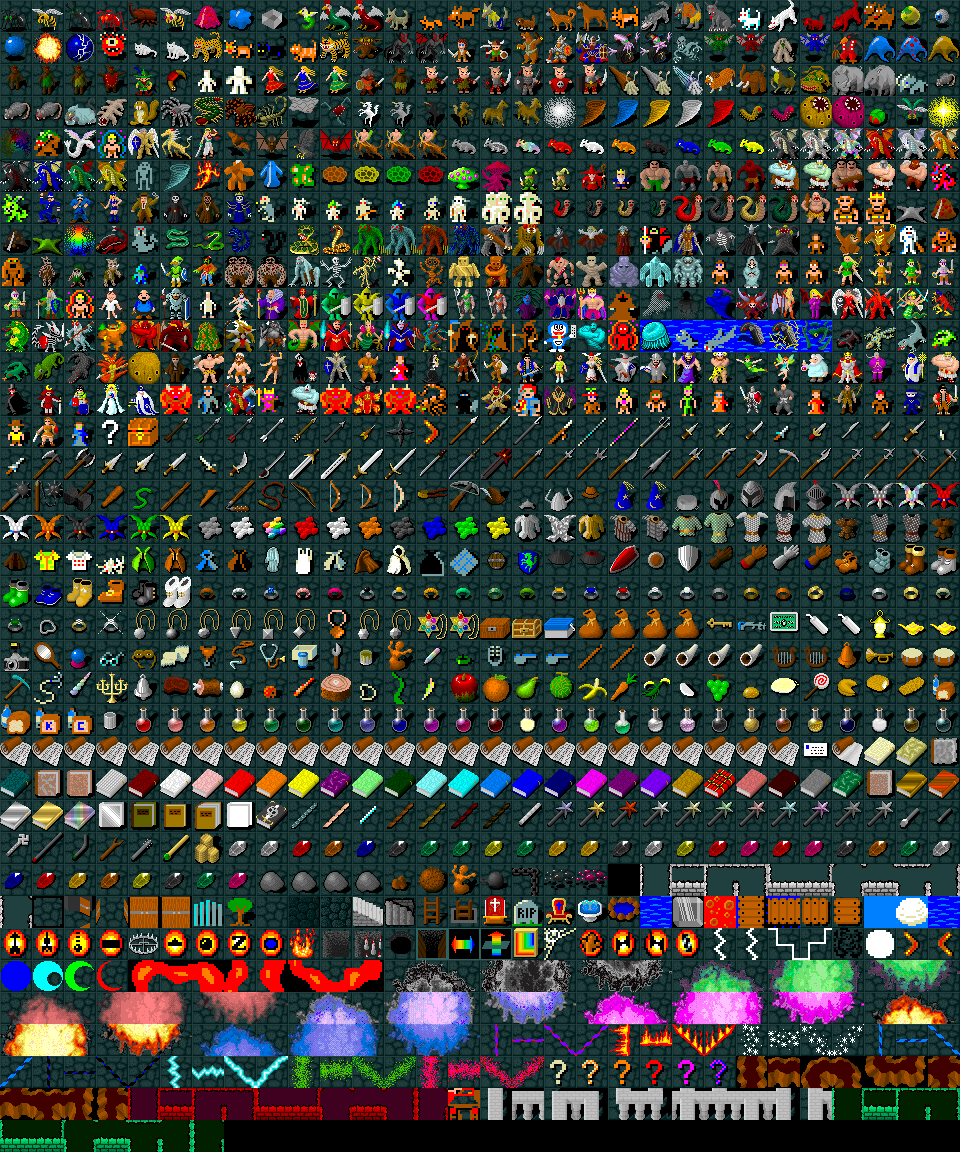
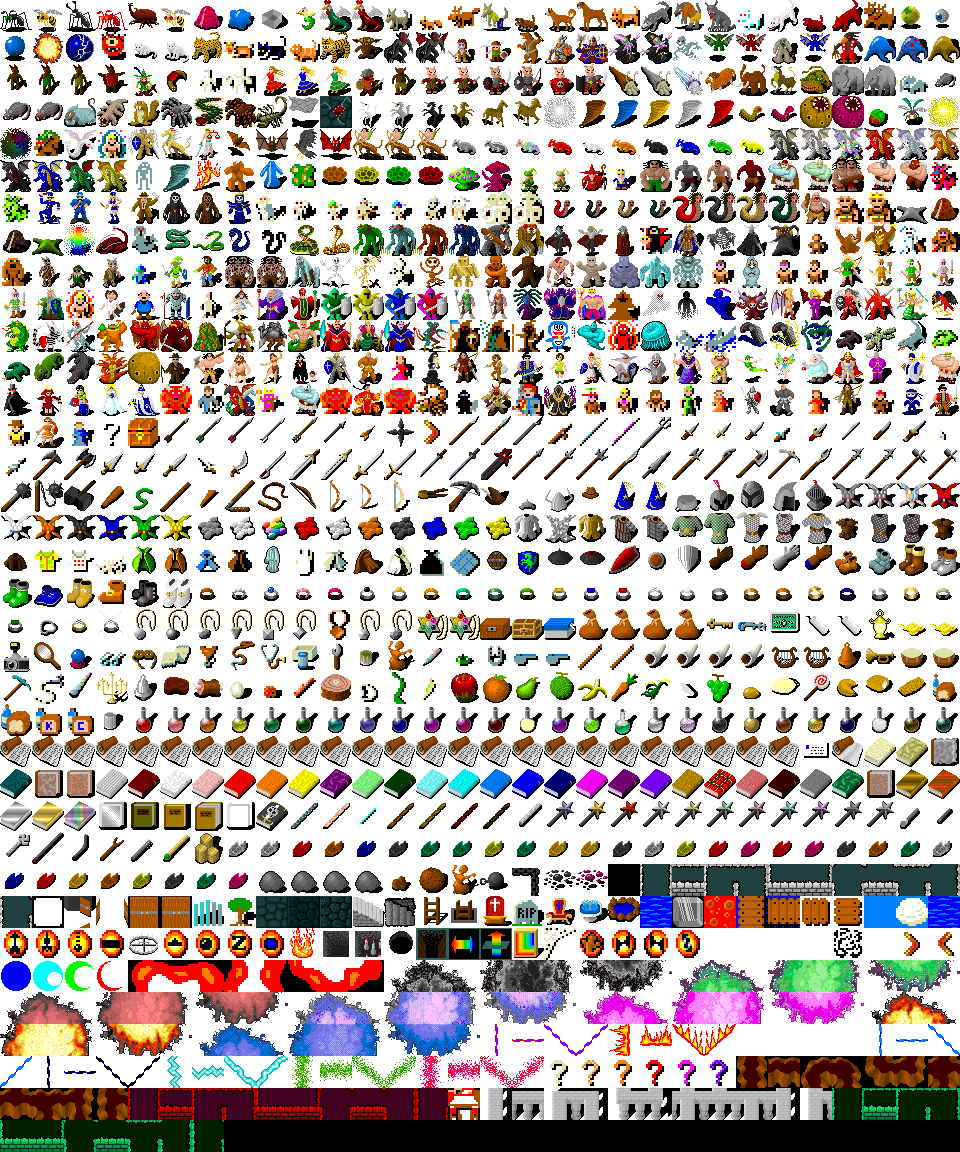
Remove background from some tile images. Cache combined images instead of drawing background separately.

diff --git a/FishingRodOfDestiny/src/main/java/fishingrodofdestiny/resources/ImageCache.java b/FishingRodOfDestiny/src/main/java/fishingrodofdestiny/resources/ImageCache.java
@@ -8,6 +8,10 @@ package fishingrodofdestiny.resources;
 import java.net.URL;
 import java.util.HashMap;
 import javafx.scene.image.Image;
+import javafx.scene.image.PixelReader;
+import javafx.scene.image.PixelWriter;
+import javafx.scene.image.WritableImage;
+import javafx.scene.paint.Color;
 
 /**
  * Singleton to load and cache images.
@@ -25,10 +29,14 @@ public class ImageCache {
     }
     
     
-    private HashMap<String, Image> images;
+    private final HashMap<String, Image>                images;
+    private final HashMap<String, Image>                partialImages;
+    private final HashMap<Image, HashMap<Image, Image>> combinedImages;
   
     private ImageCache() {
-        this.images = new HashMap<>();
+        this.images         = new HashMap<>();
+        this.partialImages  = new HashMap<>();
+        this.combinedImages = new HashMap<>();
     }
     
     public Image get(String name) {
@@ -55,5 +63,98 @@ public class ImageCache {
         }
 
         return image;
+    }
+    
+    
+    public Image getPartial(String name, int offsetX, int offsetY, int width, int height) {
+        String key = name + ":" + offsetX + "," + offsetY + "-" + width + "x" + height;
+        Image partialImage = this.partialImages.get(key);
+        if (partialImage != null) {
+            return partialImage;
+        }
+        
+        if (this.partialImages.containsKey(key)) {
+            return null;
+        }
+        
+        Image source = this.get(name);
+        if (source == null) {
+            return null;
+        }
+        
+        partialImage = this.createPartial(source, offsetX, offsetY, width, height);
+        this.partialImages.put(key, partialImage);
+        
+        return partialImage;
+    }
+    
+    
+    public Image getCombined(Image background, Image foreground) {
+        HashMap<Image, Image> combinedWithBackgrounds = this.combinedImages.get(background);
+        if (combinedWithBackgrounds == null) {
+            combinedWithBackgrounds = new HashMap<>();
+            this.combinedImages.put(background, combinedWithBackgrounds);
+        }
+        
+        Image combined = combinedWithBackgrounds.get(foreground);
+        if (combined != null) {
+            return combined;
+        }
+        
+        if (combinedWithBackgrounds.containsKey(foreground)) {
+            return null;
+        }
+
+        combined = this.combineImages(background, foreground);
+        combinedWithBackgrounds.put(foreground, combined);
+        
+        return combined;
+    }
+
+
+
+    private Image createPartial(Image source, int offsetX, int offsetY, int width, int height) {
+        WritableImage image = new WritableImage(width, height);
+        
+        PixelReader reader = source.getPixelReader();
+        PixelWriter writer = image.getPixelWriter();
+        
+        for(int y = 0; y < height; y++) {
+            for(int x = 0; x < width; x++) {
+                writer.setColor(x, y, reader.getColor(offsetX + x, offsetY + y));
+            }
+        }
+        
+        return image;
+    }
+
+    
+    
+    private Image combineImages(Image background, Image foreground) {
+        int width = (int) background.getWidth();
+        int height = (int) background.getHeight();
+        
+        WritableImage combined = new WritableImage(width, height);
+        
+        PixelReader prBackground = background.getPixelReader();
+        PixelReader prForeground = foreground.getPixelReader();
+        PixelWriter pwCombined   = combined.getPixelWriter();
+
+        for(int y = 0; y < height; y++) {
+            for(int x = 0; x < width; x++) {
+                Color bg = prBackground.getColor(x, y);
+                Color fg = prForeground.getColor(x, y);
+                
+                double a = fg.getOpacity();
+                double r = (1.0 - a) * bg.getRed()   + a * fg.getRed();
+                double g = (1.0 - a) * bg.getGreen() + a * fg.getGreen();
+                double b = (1.0 - a) * bg.getBlue()  + a * fg.getBlue();
+
+                Color color = new Color(r, g, b, 1);
+                pwCombined.setColor(x, y, color);
+            }
+        }
+        
+        return combined;
     }
 }

diff --git a/FishingRodOfDestiny/src/main/java/fishingrodofdestiny/world/TileGfx.java b/FishingRodOfDestiny/src/main/java/fishingrodofdestiny/world/TileGfx.java
@@ -16,37 +16,54 @@ import javafx.scene.image.Image;
  * @author joyr
  */
 public class TileGfx {
+    private final List<Image> sourceImages;
     private final List<Image> images;
-    private final int         offsetX;
-    private final int         offsetY;
-    private final int         width;
-    private final int         height;
+    private Image             background;
     private int               currentFrame;
 
-    public TileGfx(int gfxOffsetX, int gfxOffsetY, int gfxWidth, int gfxHeight) {
+    private TileGfx() {
+        this.sourceImages = new ArrayList<>();
         this.images       = new ArrayList<>();
-        this.offsetX      = gfxOffsetX;
-        this.offsetY      = gfxOffsetY;
-        this.width        = gfxWidth;
-        this.height       = gfxHeight;
+        this.background   = null;
         this.currentFrame = -1;
     }
 
     public TileGfx(String gfxFilename, int gfxOffsetX, int gfxOffsetY, int gfxWidth, int gfxHeight) {
-        this(gfxOffsetX, gfxOffsetY, gfxWidth, gfxHeight);
-        this.images.add(ImageCache.getInstance().get(gfxFilename));
+        this();
+        this.sourceImages.add(ImageCache.getInstance().getPartial(gfxFilename, gfxOffsetX, gfxOffsetY, gfxWidth, gfxHeight));
+        this.sourceImages.forEach(image -> this.images.add(image));
     }
      
     public TileGfx(List<String> gfxFilenames, int gfxOffsetX, int gfxOffsetY, int gfxWidth, int gfxHeight) {
-        this(gfxOffsetX, gfxOffsetY, gfxWidth, gfxHeight);
-        for (String filename : gfxFilenames) {
-            this.images.add(ImageCache.getInstance().get(filename));
-        }
+        this();
+        gfxFilenames.forEach(filename ->
+            this.sourceImages.add(ImageCache.getInstance().getPartial(filename, gfxOffsetX, gfxOffsetY, gfxWidth, gfxHeight))
+        );
+        this.sourceImages.forEach(image -> this.images.add(image));
     }
     
     
+    public final void setBackground(Image background) {
+        if (this.background == background) {
+            return;
+        }
+        
+        this.background = background;
+        this.images.clear();
+
+        if (this.background == null) {
+            this.sourceImages.forEach(image -> this.images.add(image));
+            
+        } else {
+            ImageCache cache = ImageCache.getInstance();
+            this.sourceImages.forEach(image -> {
+                this.images.add(cache.getCombined(this.background, image));
+            });
+        }
+    }
+    
     public void draw(GraphicsContext context, int x, int y, int size) {
-        context.drawImage(this.getNextFrame(), this.offsetX, this.offsetY, this.width, this.height, x, y, size, size);
+        context.drawImage(this.getNextFrame(), x, y, size, size);
     }
     
     public Image getNextFrame() {

diff --git a/FishingRodOfDestiny/src/main/java/fishingrodofdestiny/world/tiles/WallTile.java b/FishingRodOfDestiny/src/main/java/fishingrodofdestiny/world/tiles/WallTile.java
@@ -7,8 +7,6 @@ package fishingrodofdestiny.world.tiles;
 
 import fishingrodofdestiny.world.Level;
 import fishingrodofdestiny.world.TileGfx;
-import javafx.scene.canvas.GraphicsContext;
-import javafx.scene.paint.Color;
 
 /**
  *
@@ -18,7 +16,7 @@ public class WallTile extends Tile {
 
     public WallTile(Level level, int x, int y) {
         super(level, x, y);
-        this.setGraphics(new TileGfx("DawnLike/Objects/Wall", 48, 192, 16, 16));
+        this.setGraphics(new TileGfx("rltiles/tile", 320, 0, 32, 32));
     }
     
     public boolean canBeEntered() {

diff --git a/FishingRodOfDestiny/src/main/java/fishingrodofdestiny/world/tiles/Tile.java b/FishingRodOfDestiny/src/main/java/fishingrodofdestiny/world/tiles/Tile.java
@@ -32,8 +32,16 @@ public abstract class Tile {
         this.graphics  = null;
     }
     
+    public TileGfx getGraphics() {
+        return this.graphics;
+    }
+    
     protected final void setGraphics(TileGfx graphics) {
         this.graphics = graphics;
+    }
+    
+    protected final void setGraphicsBackground(Image background) {
+        this.graphics.setBackground(background);
     }
     
     public final Level getLevel() {

diff --git a/FishingRodOfDestiny/src/main/java/fishingrodofdestiny/world/tiles/StairsUpTile.java b/FishingRodOfDestiny/src/main/java/fishingrodofdestiny/world/tiles/StairsUpTile.java
@@ -17,5 +17,8 @@ public class StairsUpTile extends StairsTile {
     public StairsUpTile(Level level, int x, int y) {
         super(level, x, y);
         this.setGraphics(new TileGfx("rltiles/nh32", 416, 896, 32, 32));
+        
+        Tile floor = new FloorTile(level, x, y);
+        this.setGraphicsBackground(floor.getGraphics().getNextFrame());
     }
 }

diff --git a/FishingRodOfDestiny/src/main/java/fishingrodofdestiny/world/tiles/StairsDownTile.java b/FishingRodOfDestiny/src/main/java/fishingrodofdestiny/world/tiles/StairsDownTile.java
@@ -17,5 +17,8 @@ public class StairsDownTile extends StairsTile {
     public StairsDownTile(Level level, int x, int y) {
         super(level, x, y);
         this.setGraphics(new TileGfx("rltiles/nh32", 448, 896, 32, 32));
+
+        Tile floor = new FloorTile(level, x, y);
+        this.setGraphicsBackground(floor.getGraphics().getNextFrame());
     }
 }

diff --git a/documentation/timesheet.md b/documentation/timesheet.md
@@ -38,6 +38,6 @@ Time used for the project.
   <tr><td>     </td><td> 1.0</td><td>Documentation (architecture).</td></tr>
   <tr><td>10.4.</td><td> 1.5</td><td>Figuring out how to load resources.</td></tr>
   <tr><td>     </td><td> 0.5</td><td>Finding tile graphics and setting them up.</td></tr>
-  <tr><td>11.4.</td><td> 1.5</td><td>Finding tile graphics and setting them up.</td></tr>
-  <tr><th>Total</th><th>47.5</th><th></th></tr>
+  <tr><td>11.4.</td><td> 3.0</td><td>Finding tile graphics and setting them up.</td></tr>
+  <tr><th>Total</th><th>49.0</th><th></th></tr>
 </table>
